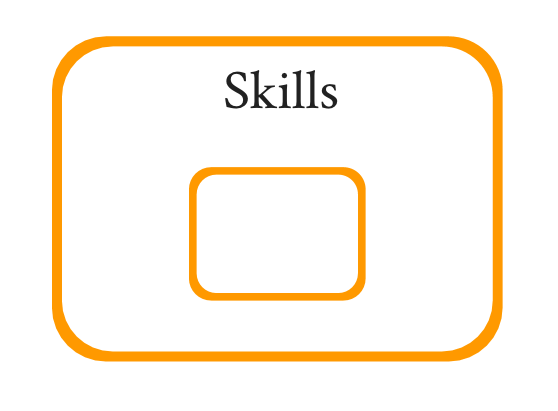
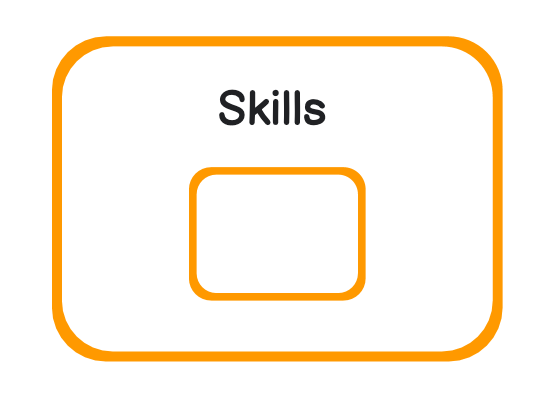
new font

Changed region(s): [[0.3961, 0.1752, 0.6093, 0.3212]]

diff --git a/index.html b/index.html
@@ -11,7 +11,8 @@
     </script>
     <meta charset="utf-8">
     <meta name="viewport" content="width=device-width, initial-scale=1, shrink-to-fit=no">
-    <link href="https://fonts.googleapis.com/css?family=Crimson+Text" rel="stylesheet">
+    <link rel="preconnect" href="https://fonts.gstatic.com">
+    <link href="https://fonts.googleapis.com/css2?family=Balsamiq+Sans&display=swap" rel="stylesheet">
     <link rel="stylesheet" href="https://maxcdn.bootstrapcdn.com/bootstrap/4.0.0-beta.3/css/bootstrap.min.css" integrity="sha384-Zug+QiDoJOrZ5t4lssLdxGhVrurbmBWopoEl+M6BdEfwnCJZtKxi1KgxUyJq13dy" crossorigin="anonymous">
     <link rel="stylesheet" href="https://use.fontawesome.com/releases/v5.1.0/css/all.css" integrity="sha384-lKuwvrZot6UHsBSfcMvOkWwlCMgc0TaWr+30HWe3a4ltaBwTZhyTEggF5tJv8tbt" crossorigin="anonymous">
     <link rel="stylesheet" type="text/css" href="index.css">
@@ -48,7 +49,7 @@
 				</div>
 				<div class="row">
 					<div id="instr">
-						<h1>Use <i class="far fa-caret-square-left"></i> and <i class="far fa-caret-square-right"></i> to move. Press enter to shoot.</h1>
+						<h2>Use <i class="far fa-caret-square-left"></i> and <i class="far fa-caret-square-right"></i> to move. Press enter to shoot.</h2>
 					</div>
 				</div>
 				<div id="control" class="row">
@@ -65,7 +66,7 @@
 			<div class="container">
 				<h1>About</h1>
 				<div class="bio">
-					<h5>🌉 Welcome! I'm Jenny from San Francisco, CA.          
+					<p>🌉 Welcome! I'm Jenny from San Francisco, CA.          
                         <br>
                         🏫 I currently study <b>mathematics and computer science</b> at University of California San Diego.
                         <br>
@@ -76,7 +77,7 @@
                         💡 I'm interested in fintech, consumer tech, travel, real estate, and design. 
                         <br>
                         🌏 In my free time, I am a passionate sports fan, pop culture expert, and world explorer.
-                    </h5>
+          </p>
 				</div>
 				<div id="contact">
 					<a href="mailto:jennyxin28@gmail.com" title="Email"><i class="fas fa-envelope-square"></i></a>
@@ -94,7 +95,7 @@
             <div class="card">
 							<div class="row">
 								<img class="card-img-top col-4" src="images/droplet.jpeg" alt="droplet logo">
-								<h5 class="col-8"><br><strong>Droplet</strong><br><br><span class="details">Software Development Intern<br>July 2020 - October 2020<br>Remote</span></h5>
+								<p class="col-8"><br><strong>Droplet</strong><br><br><span class="details">Software Development Intern<br>July 2020 - October 2020<br>Remote</span></p>
 							</div>
 							<div class="card-body">
 								<p class="card-text">
@@ -255,7 +256,7 @@
 				<h1>Skills</h1>
 				<table id="chart">
 					<tr>
-						<th><h2>Java</h2></th>
+						<th><h3>Java</h3></th>
 						<td><img src="images/bball.png" alt="ball"></td>
 						<td><img src="images/bball.png" alt="ball"></td>
 						<td><img src="images/bball.png" alt="ball"></td>
@@ -263,27 +264,27 @@
 						<td><img src="images/bball.png" alt="ball"></td>
 					</tr>
 					<tr>
-						<th><h2>Javascript</h2></th>
+						<th><h3>Javascript</h3></th>
 						<td><img src="images/bball.png" alt="ball"></td>
 						<td><img src="images/bball.png" alt="ball"></td>
 						<td><img src="images/bball.png" alt="ball"></td>
 						<td><img src="images/bball.png" alt="ball"></td>
 					</tr>
 					<tr>
-						<th><h2>C/C++</h2></th>
+						<th><h3>C/C++</h3></th>
 						<td><img src="images/bball.png" alt="ball"></td>
 						<td><img src="images/bball.png" alt="ball"></td>
 						<td><img src="images/bball.png" alt="ball"></td>
 						<td><img src="images/bball.png" alt="ball"></td>
 					</tr>
 					<tr>
-						<th><h2>Swift</h2></th>
+						<th><h3>Swift</h3></th>
 						<td><img src="images/bball.png" alt="ball"></td>
                         <td><img src="images/bball.png" alt="ball"></td>
                         <td><img src="images/bball.png" alt="ball"></td>
                     </tr>
                     <tr>
-                        <th><h2>React</h2></th>
+                        <th><h3>React</h3></th>
                         <td><img src="images/bball.png" alt="ball"></td>
                         <td><img src="images/bball.png" alt="ball"></td>
                         <td><img src="images/bball.png" alt="ball"></td>

diff --git a/index.css b/index.css
@@ -2,7 +2,7 @@ body, html {
   cursor: url("cursors/default.png"), auto;
   height: 100%;
   margin: 0;
-  font-family: 'Crimson Text', serif;
+  font-family: 'Balsamiq Sans', serif;
   color:white;
   background-color:#fffaf5;
 }
@@ -73,8 +73,9 @@ body a :hover, html a :hover{
     border-radius: 10px;
     text-align: center;
 }
-.bio h5 {
-    line-height: 1.5;
+.bio p {
+  font-size: 18px;
+    line-height: 1.75;
 }
 #contact i {
 	font-size:4.25em;
@@ -112,9 +113,9 @@ body a :hover, html a :hover{
 }
 .col-8 {
 	color:black;
-	font-size: 23px;
-	line-height: 14px;
-	padding:0;
+	font-size: 21px;
+	line-height: 15px;
+	padding: 0.3rem 0 0 0;
 }
 .details {
 	color:black;
